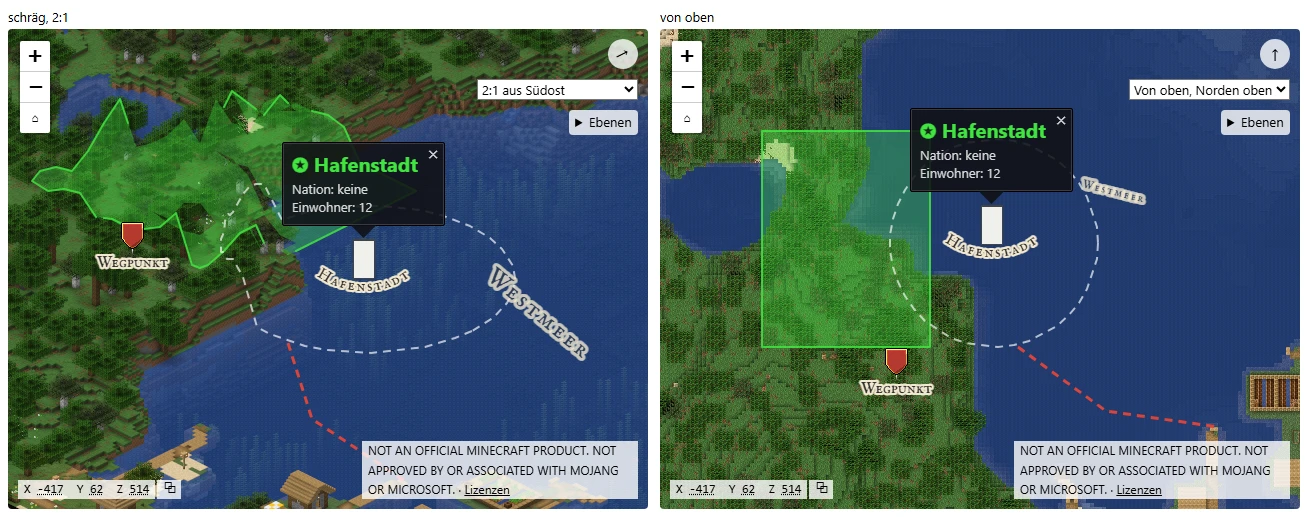
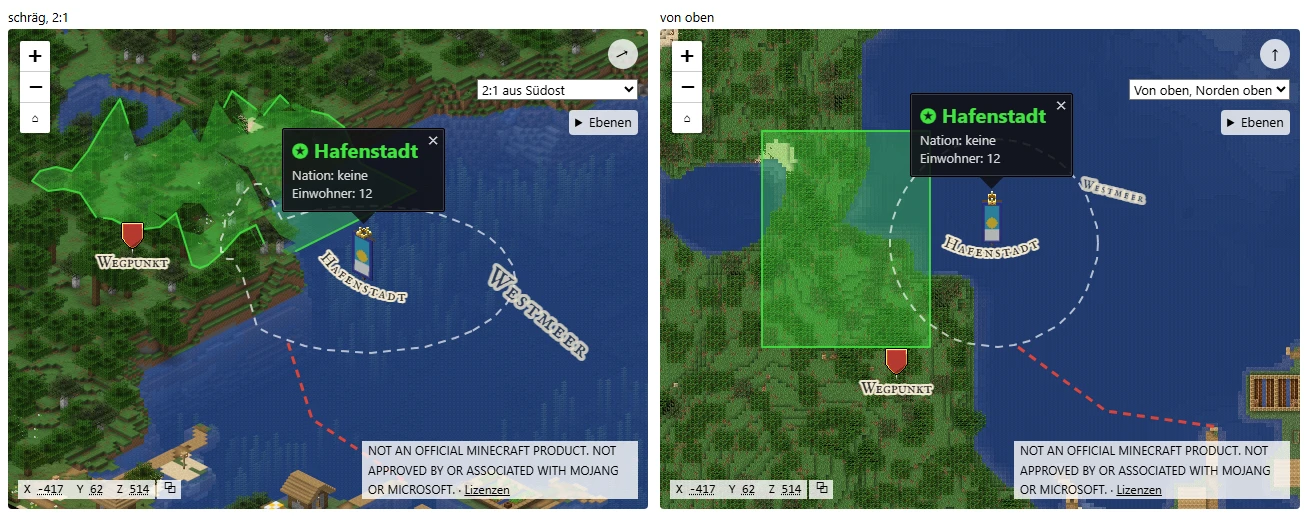
Bild der Ebenen mit echten Bannern, Kacheln von 0.8.0
Das Banner der Hafenstadt hat jetzt einen Entwurf und die Krone; das
Skript lässt die Sprites mit --banners zeichnen wie das Plugin. Kacheln
und Banner vom Stand master, 0.8.0. Runde 1 von #271.

Changed region(s): [[0.2141, 0.2476, 0.367, 0.588], [0.6728, 0.1547, 0.8257, 0.4952]]

diff --git a/skills/doku-bilder-rendern/SKILL.md b/skills/doku-bilder-rendern/SKILL.md
@@ -35,7 +35,7 @@ Testwelt liegt unter `./world`, die Assets wie in
    | `verkleinern-von-oben.webp` | ein Ausschnitt in `top-north` bei scale 4 als Kacheln, drei Stufen über der Basis, vierfach vergrössert: links aus der Basis gemittelt, in der Mitte je 2 × 2 der feste Platz rechts unten, rechts die Kacheln des Renderers; das Skript prüft, dass sie dem Wechsel aus der Basis gleichen, `VERKLEINERN` |
    | `web/public/vorschau.jpg`, `favicon.png`, `apple-touch-icon.png` | [`web-bilder.py`](web-bilder.py): die Mitte von `welt.webp` auf 1200 × 630, die Icons aus der Ebene „Insel“ des Banners, siehe Schritt 3 |
    | `marmor.webp` | der Skin Tablett, vorerst nur Marmor, an einem Kachelbaum der Testwelt in 2:1 mit `--scale 8`: in `web/` erst `SKIN=./skins/tablett npx vite build --outDir dist-skin`, dann `node ../skills/doku-bilder-rendern/marmor-bild.mjs <kachelwurzel> ../docs/bilder/marmor.webp` ([`marmor-bild.mjs`](marmor-bild.mjs)) |
-   | `ebenen-testwelt.webp` | eine Ebene mit Region, Kreis, Linie, Kartenschrift, Banner mit Tafel und Nadel auf dem Ufer der Testwelt, in 2:1 und von oben nebeneinander, aufgenommen im Frontend. Die Kacheln liegen ausserhalb des Repositorys: `heroic-map-renderer --world ./world --assets ./vanilla-assets --assets ./assets --data ./vanilla-data --camera 2:1 --scale 16 --gpu off --area -520 420 -320 620 --tiles <wurzel>`, dasselbe mit `--camera top-north`; dann in `web/` `npm run build` und `node ../skills/doku-bilder-rendern/ebenen-bild.mjs <wurzel>` ([`ebenen-bild.mjs`](ebenen-bild.mjs)). Das Skript legt die Ebene in die Wurzel und schreibt WebP mit Qualität 90 |
+   | `ebenen-testwelt.webp` | eine Ebene mit Region, Kreis, Linie, Kartenschrift, Banner mit Entwurf, Krone und Tafel und Nadel auf dem Ufer der Testwelt, in 2:1 und von oben nebeneinander, aufgenommen im Frontend. Die Kacheln liegen ausserhalb des Repositorys: `heroic-map-renderer --world ./world --assets ./vanilla-assets --assets ./assets --data ./vanilla-data --camera 2:1 --scale 16 --gpu off --area -520 420 -320 620 --tiles <wurzel>`, dasselbe mit `--camera top-north`; dann in `web/` `npm run build` und `node ../skills/doku-bilder-rendern/ebenen-bild.mjs <wurzel> <renderer>` ([`ebenen-bild.mjs`](ebenen-bild.mjs)). Das Skript legt die Ebene in die Wurzel, zeichnet ihre Banner mit `--banners --out <wurzel>/layers --tiles <wurzel>` wie das Plugin und schreibt WebP mit Qualität 90. Liegen die Assets nicht in der Wurzel des Repositorys, nennt ein drittes Argument ihren Ordner |
    | `name-bogen.png` | kein Render: der Name im Bogen nach [`ebenen.md`](../../docs/benutzung/ebenen.md), „Nadeln und Banner“, als SVG in der Kartenschrift über einer Kachel der Testwelt, Quelle [`quellen/name-bogen/name-bogen.html`](../../docs/bilder/quellen/name-bogen/name-bogen.html); aus `web/`: `node ../skills/doku-bilder-rendern/name-bogen.mjs` ([`name-bogen.mjs`](name-bogen.mjs)) |
    | `benchmark.svg` | kein Render: das Diagramm „Platz, RAM und Geschwindigkeit“ aus der Tabelle einer Benchmark-Seite, `python docs/bilder/quellen/benchmark-diagramm.py docs/messungen/<seite>.md docs/bilder/benchmark.svg` ([`benchmark-diagramm.py`](../../docs/bilder/quellen/benchmark-diagramm.py), ohne Pakete). Es darf andere Werkzeuge und den Messrechner nennen, Regel 20 und 24 |
    | `sprites.png` | der Befehl in [`docs/benutzung/schalter.md`](../../docs/benutzung/schalter.md), „Sprites rastern: `--sprite`“ |

diff --git a/docs/benutzung/ebenen.md b/docs/benutzung/ebenen.md
@@ -696,9 +696,9 @@ und Linien, über seinen Kanal. Regionen braucht der Mod auch zum Anheften
 
 ## Zeichnen
 
-![Eine Ebene auf dem Ufer der Testwelt, links schräg in 2:1, rechts von oben: Region, Kreis, Linie, Kartenschrift, ein Banner mit Name im Bogen und Tafel, eine Nadel](../bilder/ebenen-testwelt.webp)
+![Eine Ebene auf dem Ufer der Testwelt, links schräg in 2:1, rechts von oben: Region, Kreis, Linie, Kartenschrift, ein Banner mit Entwurf und Krone, Name im Bogen und Tafel, eine Nadel](../bilder/ebenen-testwelt.webp)
 
-*Testwelt, scale 16, Kacheln von v0.6.0; Befehle im Skill
+*Testwelt, scale 16, Kacheln und Banner von 0.8.0; Befehle im Skill
 [`doku-bilder-rendern`](../../skills/doku-bilder-rendern/SKILL.md).*
 
 Jede Ansicht rechnet die Punkte mit derselben Projektion wie die Kacheln,
